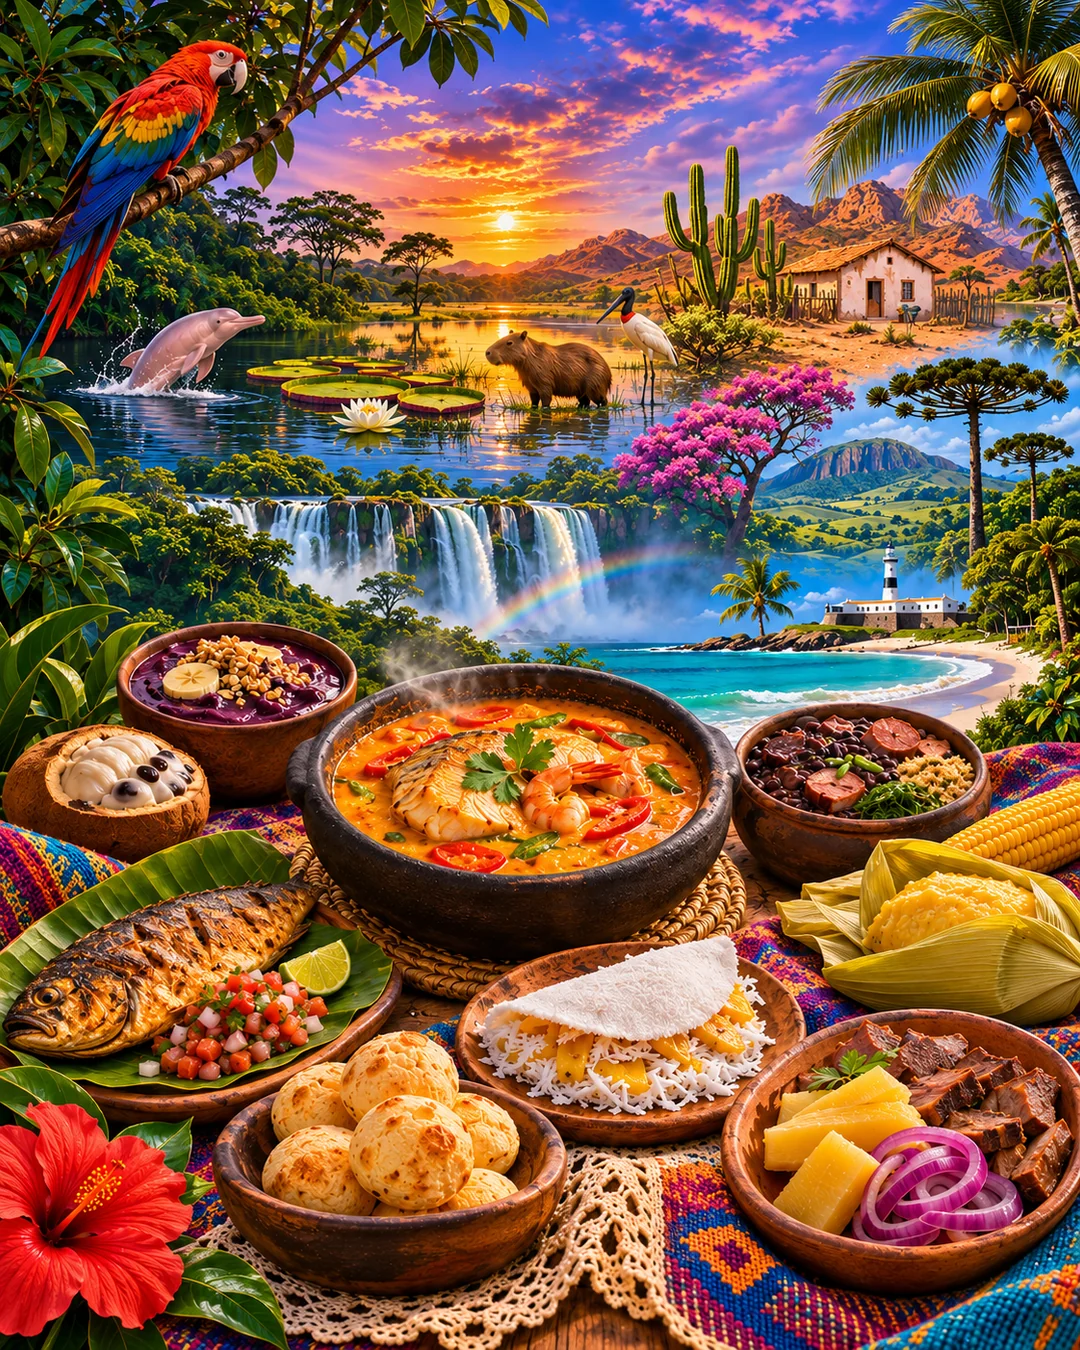
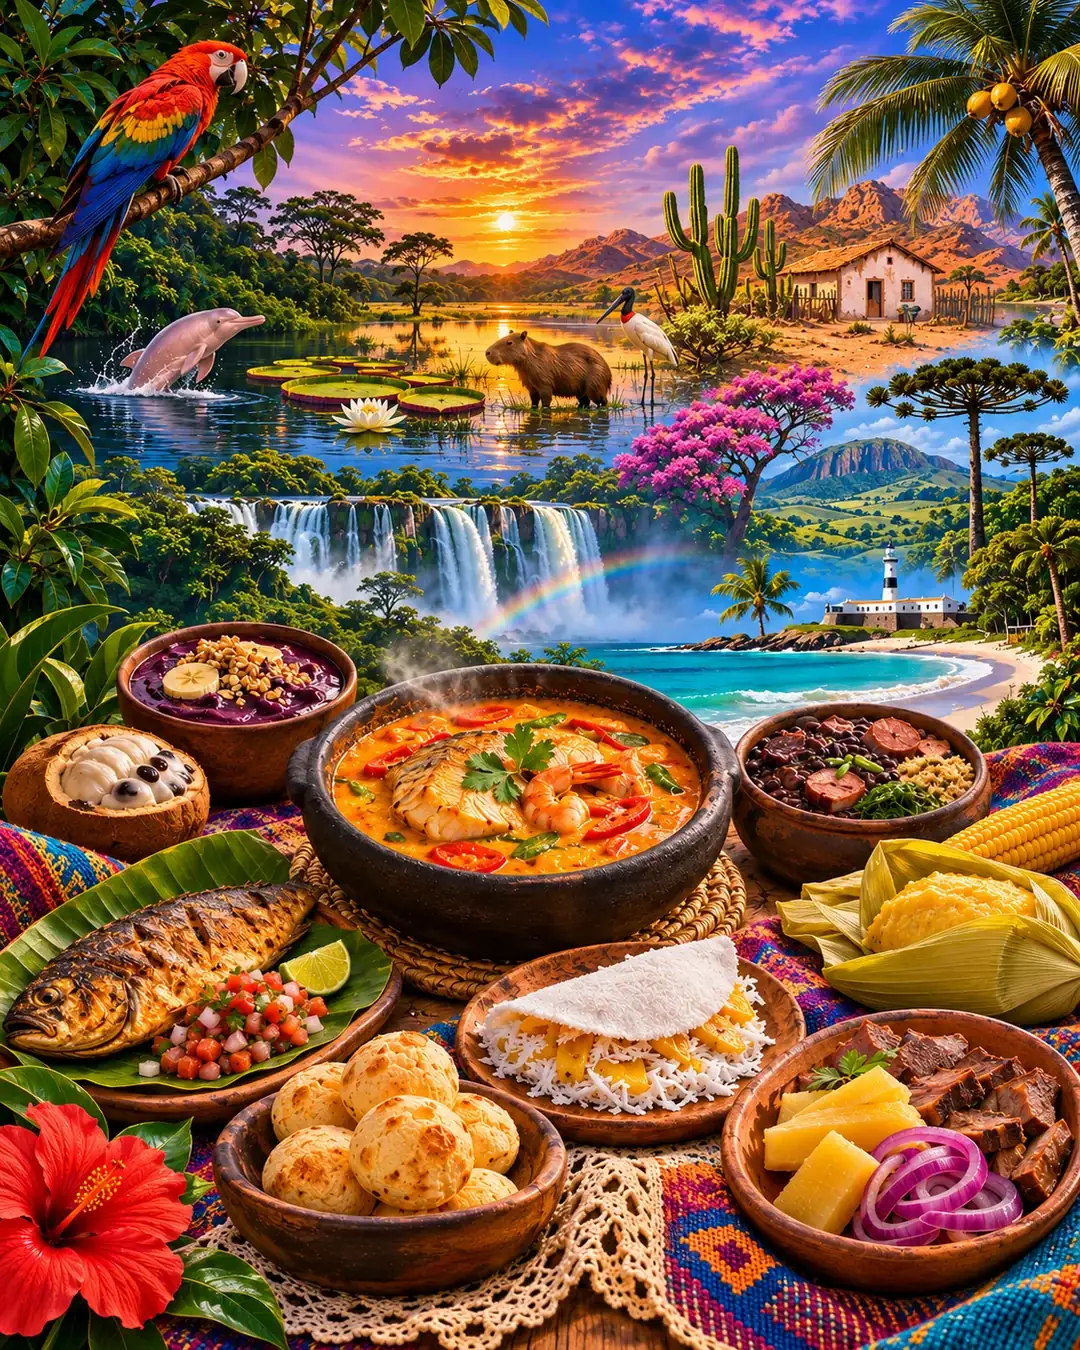
Reduz peso das imagens no celular: compressão das versões -mobile e variante 1024 px
Claude-Session: https://claude.ai/code/session_01QjVBGwoR8NASL2G5yvP6NG

diff --git a/src/components/Art.tsx b/src/components/Art.tsx
@@ -51,8 +51,8 @@ export function Art({ id, ratio, className = '', style, decorative, fill, eager,
           {def.hasMobile && fill && <source media="(max-width: 760px)" srcSet={`${base}${id}-mobile.webp`} />}
           <img
             src={`${base}${def.file}`}
-            srcSet={`${base}${id}-sm.webp 640w, ${base}${def.file} ${fullWidth(def.ratio)}w`}
-            sizes={sizes ?? (fill ? '100vw' : '(max-width: 760px) 100vw, 420px')}
+            srcSet={`${base}${id}-sm.webp 640w, ${base}${id}-md.webp 1024w, ${base}${def.file} ${fullWidth(def.ratio)}w`}
+            sizes={sizes ?? (fill ? '100vw' : '(max-width: 760px) 50vw, 420px')}
             alt={alt} loading={eager ? 'eager' : 'lazy'} decoding="async" onError={() => setFailed(true)} />
         </picture>
       </div>

diff --git a/src/pages/Immersions.tsx b/src/pages/Immersions.tsx
@@ -96,7 +96,7 @@ export function ImmersionPage() {
       <div className="split">
         <div className="stack">
           <section className="panel" style={{ padding: 0, overflow: 'hidden', position: 'relative' }} aria-label="Cena da imersão">
-            <Art id={imm.artId} ratio={16 / 8} eager />
+            <Art id={imm.artId} ratio={16 / 8} eager sizes="(max-width: 760px) 85vw, 900px" />
             <div style={{ position: 'absolute', inset: 0, background: 'linear-gradient(180deg, rgba(6,10,34,.75) 0%, rgba(6,10,34,0) 40%, rgba(6,10,34,.9) 100%)', pointerEvents: 'none' }} />
             <div style={{ position: 'absolute', top: 20, left: 24, right: 24 }}>
               <h2 style={{ fontSize: 'clamp(1.3rem,2.4vw,2.2rem)', margin: 0 }}>{ch ? ch.title : imm.title}</h2>

diff --git a/src/pages/Stories.tsx b/src/pages/Stories.tsx
@@ -114,7 +114,7 @@ export function StoryPlayer() {
       <div className="split">
         <div className="stack">
           <section className="panel" style={{ padding: 0, overflow: 'hidden', position: 'relative' }}>
-            <Art id={scene.artId ?? story.artId} ratio={16 / 8} eager />
+            <Art id={scene.artId ?? story.artId} ratio={16 / 8} eager sizes="(max-width: 760px) 85vw, 900px" />
             <div style={{ position: 'absolute', inset: 0, background: 'linear-gradient(180deg, rgba(6,10,34,0) 45%, rgba(6,10,34,.92))', pointerEvents: 'none' }} />
             <h2 style={{ position: 'absolute', left: 24, bottom: 14, right: 24, fontSize: 'clamp(1.4rem,2.6vw,2.3rem)', margin: 0, textShadow: '0 2px 14px #000' }}>{scene.title}</h2>
           </section>

diff --git a/src/pages/Library.tsx b/src/pages/Library.tsx
@@ -155,7 +155,7 @@ export default function Library() {
               <div key={p.id} className="stack-sm">
                 <span className="badge" style={{ alignSelf: 'flex-start' }}>Missão interdisciplinar</span>
                 <h3 style={{ fontSize: '1.4rem' }}>{p.title}</h3>
-                <Art id={p.artId} ratio={16 / 9} style={{ borderRadius: 14 }} />
+                <Art id={p.artId} ratio={16 / 9} style={{ borderRadius: 14 }} sizes="(max-width: 760px) 85vw, 360px" />
                 <div className="row" style={{ gap: 6 }}>{p.subjects.map((sid) => <span key={sid} className="chip xs" style={{ padding: '3px 9px' }}>{SUBJECT_MAP[sid].name}</span>)}</div>
                 <p className="small muted">{p.summary}</p>
                 <div className="row">

diff --git a/src/pages/Lab.tsx b/src/pages/Lab.tsx
@@ -57,7 +57,7 @@ function Experiment() {
       <div className="grid" style={{ gridTemplateColumns: 'minmax(0,1.4fr) minmax(0,1fr)', gap: 16 }} id="lab-grid">
         <div className="stack">
           <div className="panel" style={{ padding: 0, overflow: 'hidden' }}>
-            <Art id="sim-lab" ratio={16 / 10} />
+            <Art id="sim-lab" ratio={16 / 10} sizes="(max-width: 760px) 85vw, 900px" />
           </div>
           <div className="grid g3">
             <Gauge value={r.energia} label="Energia" status={r.labels.energia} icon={<Zap size={18} color="var(--cyan)" />} color="#2ee6d6" />

diff --git a/src/pages/GameRoom.tsx b/src/pages/GameRoom.tsx
@@ -430,7 +430,7 @@ function GameRoomInner({ id }: { id?: string }) {
         <div className="split">
           <div className="stack">
             <section className="panel" style={{ padding: 0, overflow: 'hidden' }}>
-              <Art id={g.artId} ratio={21 / 8} decorative />
+              <Art id={g.artId} ratio={21 / 8} decorative sizes="(max-width: 760px) 85vw, 900px" />
               <div style={{ padding: 20 }}>
                 <p>{g.description}</p>
                 <h3>Instruções para a turma</h3>
